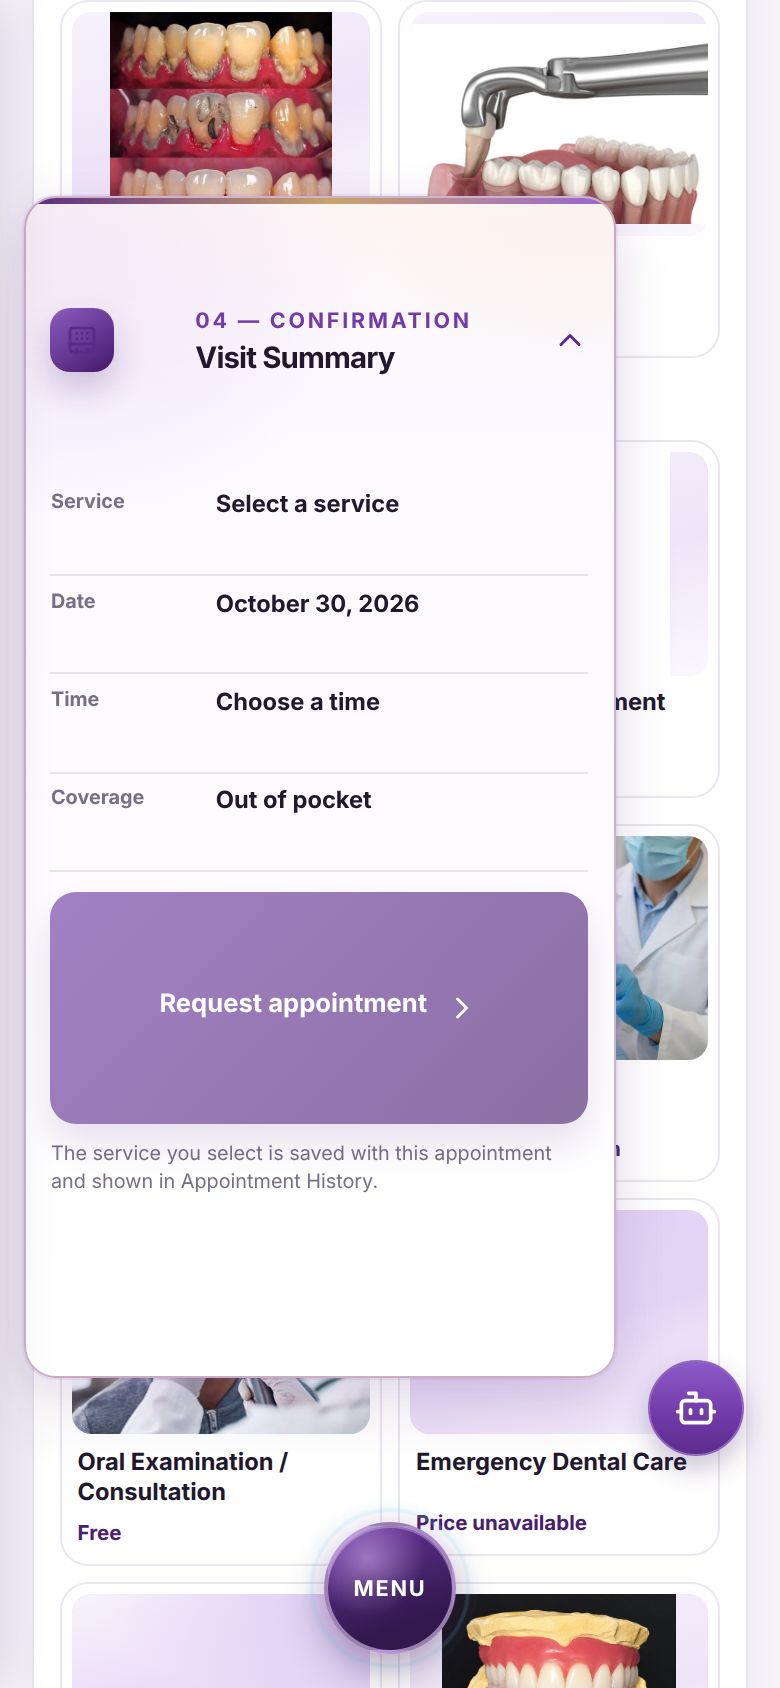
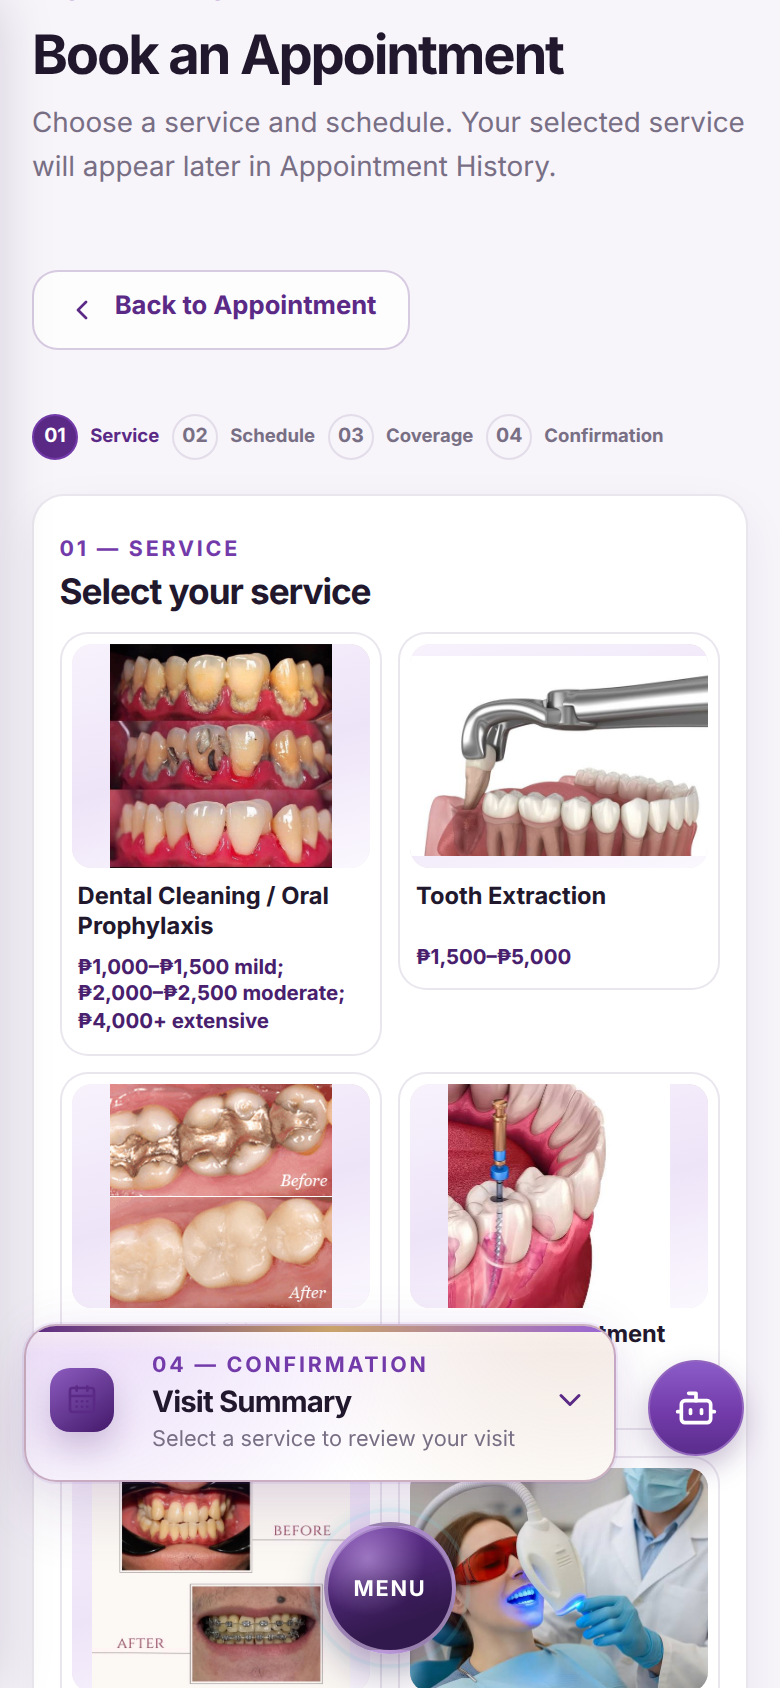
Keep mobile Visit Summary from covering booking prices.
Unset the leftover sticky top on the fixed summary sheet so it sizes to the collapsed toggle, hide the request CTA until expanded, and stub dental authorization unlinking in the admin archive purge test.

diff --git a/frontend/src/index.css b/frontend/src/index.css
@@ -3263,13 +3263,20 @@ strong {
   .booking-summary {
     position: fixed;
     z-index: 22;
+    top: auto;
     left: 0.75rem;
     right: 5.15rem;
     bottom: calc(1.2rem + env(safe-area-inset-bottom, 0px));
+    height: auto;
     max-width: 22.5rem;
     max-height: min(70dvh, calc(100dvh - 7rem));
     overflow: auto;
     overscroll-behavior: contain;
+    align-content: start;
+  }
+  .booking-summary:not(.is-open) {
+    max-height: none;
+    overflow: hidden;
   }
   .treatment-grid {
     grid-template-columns: repeat(3, minmax(0, 1fr));
@@ -3539,8 +3546,16 @@ strong {
   .booking-summary.is-open .booking-summary__body {
     display: grid;
   }
-  .booking-summary .button--wide {
+  .booking-summary > .button--wide,
+  .booking-summary > p {
+    display: none;
+  }
+  .booking-summary.is-open > .button--wide {
+    display: inline-flex;
     margin-top: 0.1rem;
+  }
+  .booking-summary.is-open > p {
+    display: block;
   }
   .schedule-fields, .field-row, .field-grid--two, .field-grid--three { grid-template-columns: 1fr; }
   .field--full { grid-column: auto; }
@@ -10316,8 +10331,10 @@ body.is-queue-display .fab-menu {
   }
 
   .booking-summary {
+    top: auto;
     right: 5.15rem;
     bottom: calc(6.45rem + env(safe-area-inset-bottom, 0px));
+    height: auto;
   }
 }
 

diff --git a/backend/test/adminUserArchive.test.js b/backend/test/adminUserArchive.test.js
@@ -179,6 +179,7 @@ async function startPortal(seedUsers, { missingPatientColumns = false } = {}) {
     if (
       /^\s*DELETE FROM /i.test(sql) ||
       /UPDATE clinic_patient_records SET linked_user_id/i.test(sql) ||
+      /UPDATE dental_procedure_authorizations SET linked_user_id/i.test(sql) ||
       /UPDATE staff_portal_invoices SET patient_user_id/i.test(sql) ||
       /UPDATE users SET managed_by_user_id/i.test(sql)
     ) {
